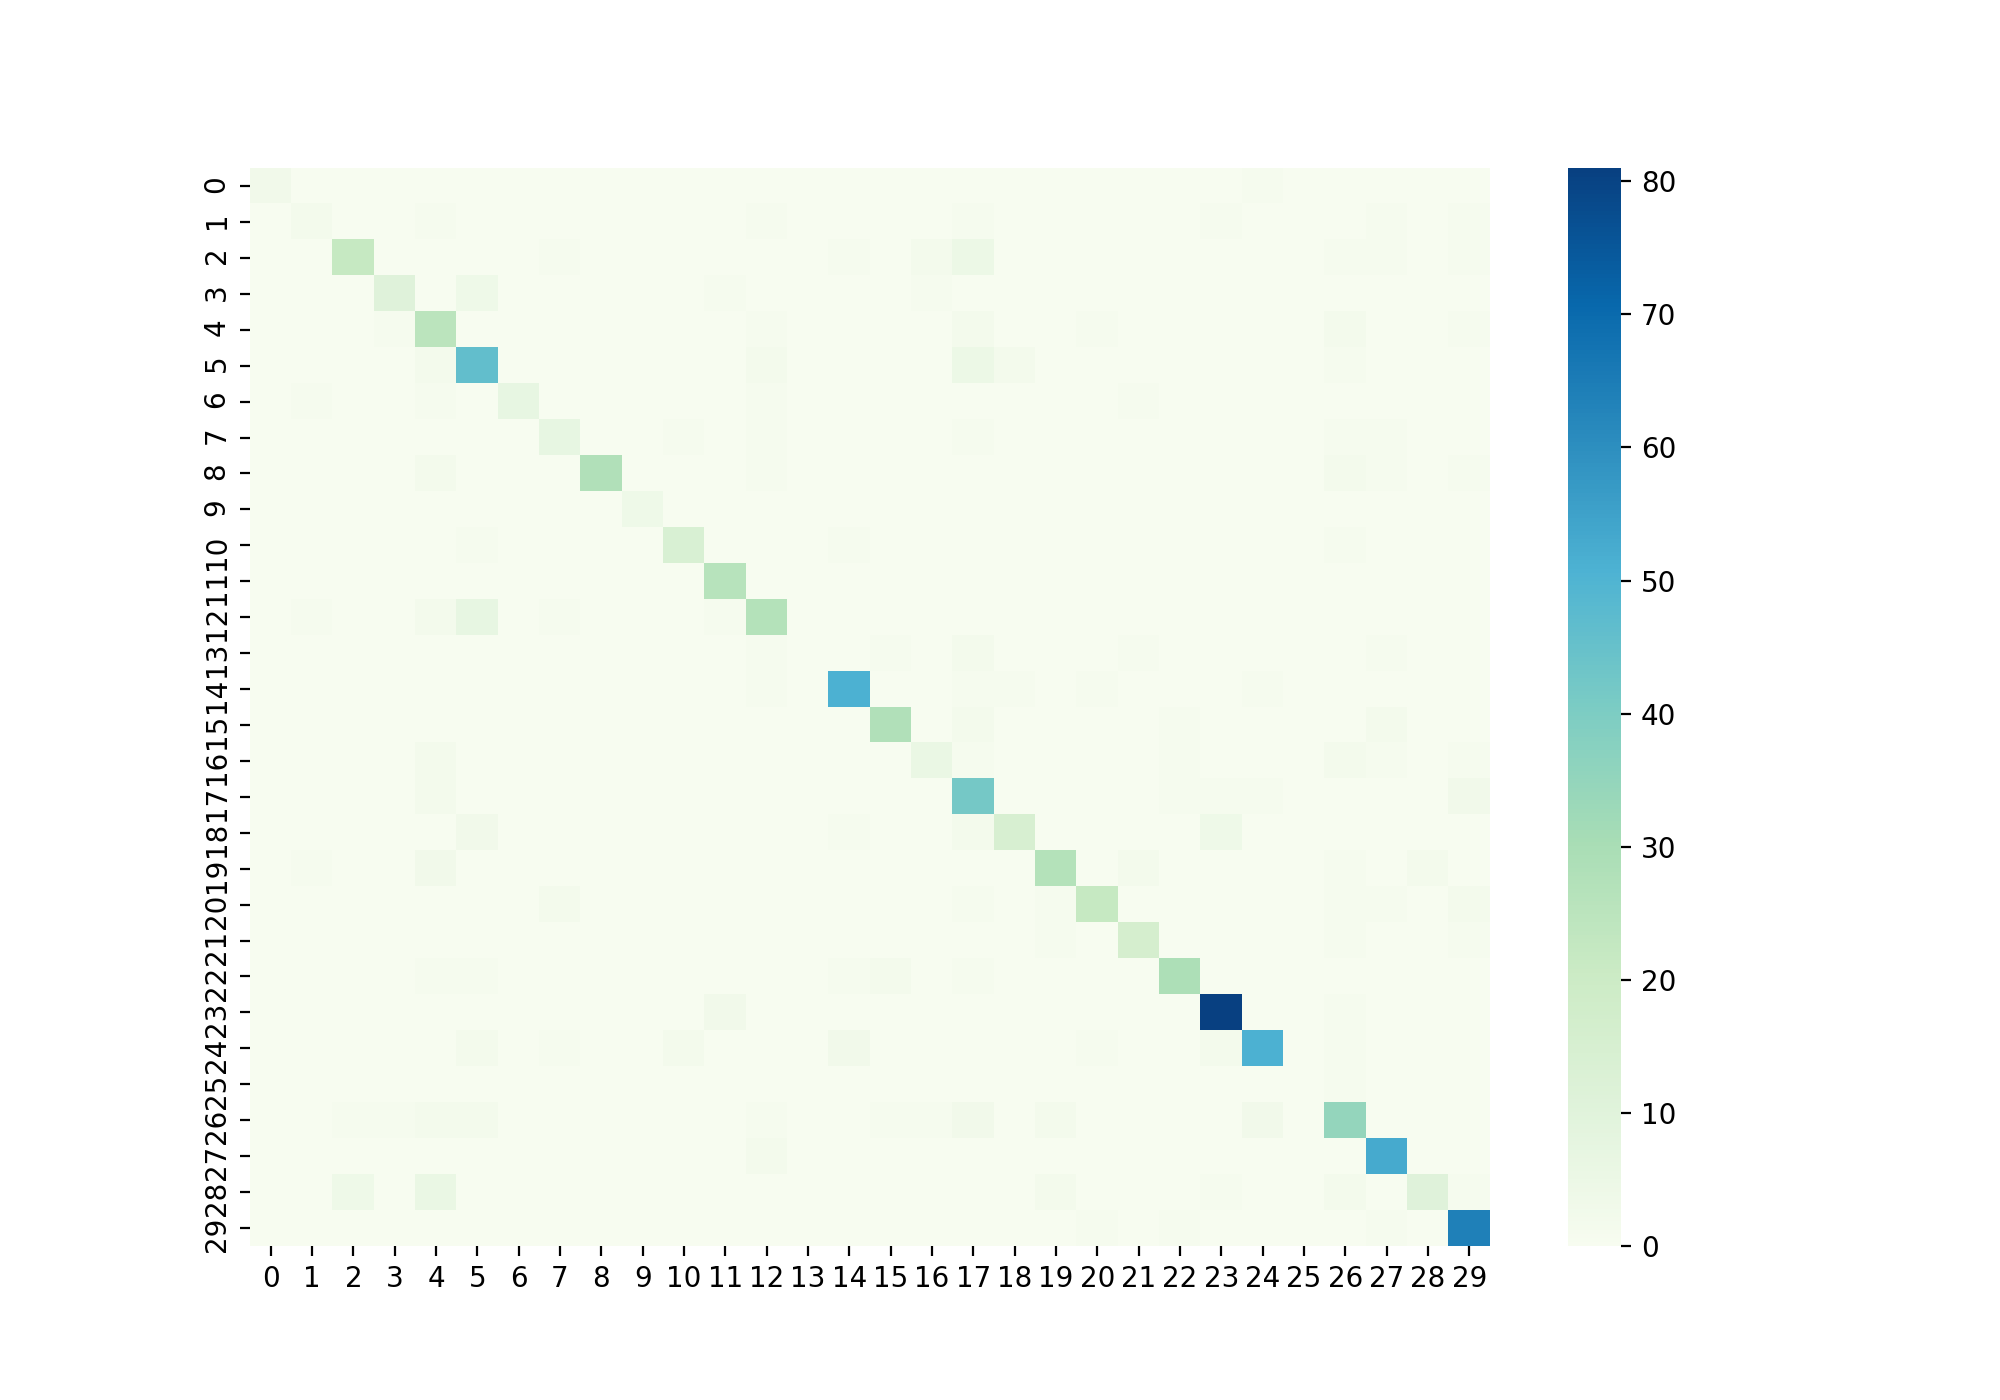
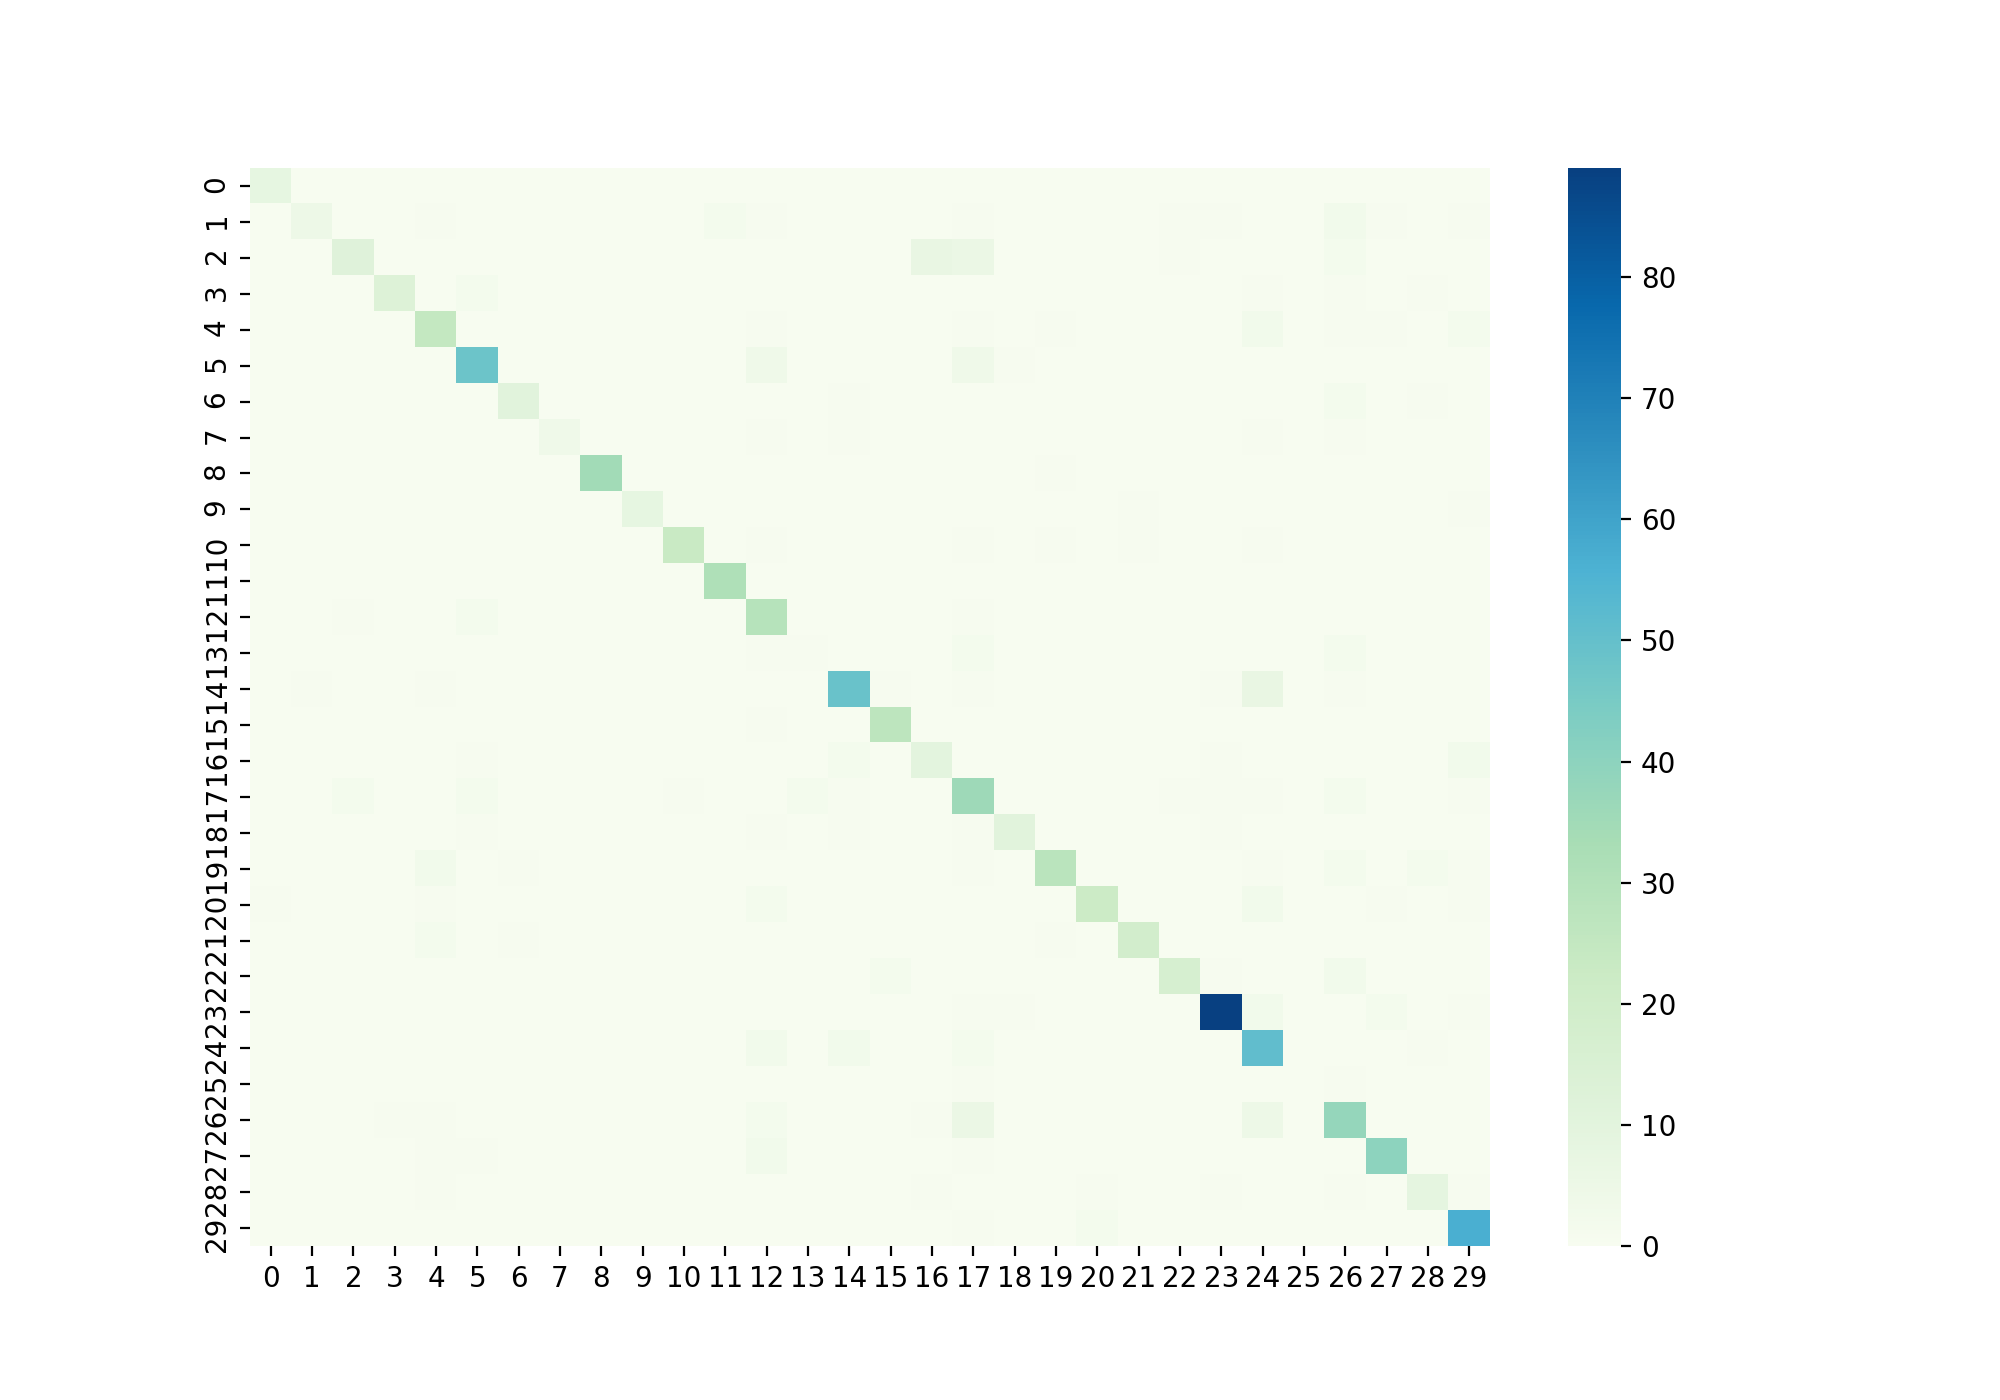
added a base perceptron

diff --git a/models.py b/models.py
@@ -1,7 +1,7 @@
 # models.py
 # Some code modified from A1 code in CS 378 NLP course
 
-from evaluate_utils import *
+from evalulate_utils import *
 from doc_process_utils import *
 
 from nltk.corpus import stopwords
@@ -85,6 +85,7 @@ class PerceptronExtractor(FeatureExtractor):
 
     def __init__(self, indexer: Indexer):
         self.indexer = indexer
+        self.enhanced_flag = True
 
     def get_indexer(self):
         return self.indexer
@@ -108,6 +109,26 @@ class PerceptronExtractor(FeatureExtractor):
                 self.indexer.add_and_get_index(reg)
 
         return Counter(filtered)
+
+class BasePerceptronExtractor(FeatureExtractor):
+    def __init__(self, indexer: Indexer):
+        self.indexer = indexer
+        self.enhanced_flag = False
+
+    def get_indexer(self):
+        return self.indexer
+
+    def extract_features(self, ex_words: List[str], add_to_indexer: bool = False) -> Counter:
+        stop_words = set(EN_STOPWORDS)
+
+        base_filtered = [w for w in ex_words if w not in stop_words and not any(i.isdigit() for i in w)]
+
+        for item in base_filtered:
+            if add_to_indexer:
+                self.indexer.add_and_get_index(item)
+
+
+        return Counter(base_filtered)
 
 
 class CommitteeClassifier(object):
@@ -138,7 +159,7 @@ class PerceptronClassifier(CommitteeClassifier):
     def predict(self, ex_words: List[str]) -> int:
         feat_cnt_dict = self.feat_extractor.extract_features(ex_words, False)
         feat_cnt_array = dict_to_np_array(feat_cnt_dict, self.feat_extractor.get_indexer(), self.word_idf,
-                                          get_summary(ex_words))
+                                          get_summary(ex_words), self.feat_extractor.enhanced_flag)
         dot_prod = np.dot(self.weights, feat_cnt_array)
         y_pred = np.argmax(dot_prod)
         return y_pred
@@ -171,7 +192,7 @@ class CNNClassifier(CommitteeClassifier):
 
 
 # NOTE: implementing multiclass perceptron using the different weights approach
-def train_perceptron(all_exs: List[BillExample]) -> PerceptronClassifier:
+def train_perceptron(all_exs: List[BillExample], type) -> PerceptronClassifier:
     """
     Train a classifier with the perceptron.
     :param all_exs: training and testing sets, List of SentimentExample objects
@@ -193,7 +214,11 @@ def train_perceptron(all_exs: List[BillExample]) -> PerceptronClassifier:
             test_exs.append(all_exs[i])
 
         # trying out a new model creating a new feature extractor
-        feat_extractor = PerceptronExtractor(Indexer())
+        if type == "BASE":
+            feat_extractor = BasePerceptronExtractor(Indexer())
+        else:
+            feat_extractor = PerceptronExtractor(Indexer())
+
         indexer = feat_extractor.get_indexer()
 
         # we make a dict of dicts bc we don't know what the vocabulary of the entire dataset will be
@@ -219,7 +244,7 @@ def train_perceptron(all_exs: List[BillExample]) -> PerceptronClassifier:
                 curr_example = train_exs[idx]
 
                 feat_dict = feat_labels[curr_example]
-                curr_features = dict_to_np_array(feat_dict, indexer, word_idf, get_summary(curr_example.words))
+                curr_features = dict_to_np_array(feat_dict, indexer, word_idf, get_summary(curr_example.words), feat_extractor.enhanced_flag)
 
                 # multiclass perceptron update
                 dot_prod = np.dot(weights, curr_features)
@@ -290,7 +315,7 @@ def train_cnn_classifier(args, all_exs: List[BillExample], word_embeddings: Word
                 # create batches of documents
                 batch_x_words = [train_exs[idx].words for idx in indices]
                 max_length = np.amax(np.array([len(x) for x in batch_x_words]))
-                upper_bound = 1000
+                upper_bound = 1500
                 batch_x_indices = []
                 # transforming everything in batch to be indexed words
                 for sentence in batch_x_words:

diff --git a/evalulate_utils.py b/evalulate_utils.py
@@ -1,10 +1,9 @@
 from process_data import *
-# import numpy as np
-# from sklearn.metrics import confusion_matrix
-# import seaborn as sn
+import numpy as np
+from sklearn.metrics import confusion_matrix
+import seaborn as sn
 import pandas as pd
 import matplotlib.pyplot as plt
-
 
 # Methods for evaluating models
 def evaluate(classifier, exs, show_plot):
@@ -27,9 +26,7 @@ def print_evaluation(golds: List[BillExample], predictions: List[BillExample], s
 
     :param golds: gold BillExample objects
     :param predictions: pred BillExample objects
-    :param show_plot
     :return:
-
     """
     num_correct = 0
     num_total = 0
@@ -42,27 +39,26 @@ def print_evaluation(golds: List[BillExample], predictions: List[BillExample], s
             num_correct += 1
         num_total += 1
     print("Accuracy: %i / %i = %f" % (num_correct, num_total, float(num_correct) / num_total))
-    # print_stats(golds, predictions, show_plot)
-    return float(num_correct) / num_total
+    print_stats(golds, predictions, show_plot)
+    return (float(num_correct) / num_total)
 
-#
-# def print_stats(golds, predictions, show_plot):
-#     cm = confusion_matrix(golds, predictions, labels=list(range(30)))
-#     with np.errstate(divide='ignore', invalid='ignore'):
-#         recall = np.nan_to_num(np.diag(cm) / np.sum(cm, axis=1))
-#         recall = np.mean(recall)
-#         precision = np.nan_to_num(np.diag(cm) / np.sum(cm, axis=0))
-#         precision = np.mean(precision)
-#         f1 = 2 * precision * recall / (precision + recall)
-#
-#         print("Precision: %f, Recall: %f, F1: %f" % (precision, recall, f1))
-#         # if show_plot:
-#         #     plot(cm)
+def print_stats(golds, predictions, show_plot):
+    cm = confusion_matrix(golds, predictions, labels=list(range(30)))
+    with np.errstate(divide='ignore', invalid='ignore'):
+        recall = np.nan_to_num(np.diag(cm) / np.sum(cm, axis = 1))
+        recall = np.mean(recall)
+        precision = np.nan_to_num(np.diag(cm) / np.sum(cm, axis = 0))
+        precision = np.mean(precision)
+        f1 = 2 * precision * recall / (precision + recall)
+
+        print("Precision: %f, Recall: %f, F1: %f" % (precision, recall, f1))
+        if show_plot == True:
+            plot(cm)
 
 
-# def plot(cm):
-#     df_cm = pd.DataFrame(cm, index=range(cm.shape[0]),
-#                          columns=range(cm.shape[1]))
-#     plt.figure(figsize=(10, 7))
-#     sn.heatmap(df_cm, annot=False, cmap="GnBu")
-#     plt.show()
+def plot(cm):
+    df_cm = pd.DataFrame(cm, index = range(cm.shape[0]),
+                  columns = range(cm.shape[1]))
+    plt.figure(figsize = (10,7))
+    sn.heatmap(df_cm, annot=False, cmap="GnBu")
+    plt.show()

diff --git a/doc_process_utils.py b/doc_process_utils.py
@@ -5,17 +5,21 @@ import re
 
 
 # Methods for document cleaning and preprocessing for perceptron
-def dict_to_np_array(counter: Counter, indexer: Indexer, word_idf, summary):
+def dict_to_np_array(counter: Counter, indexer: Indexer, word_idf, summary, enhanced_flag):
     feat_cnt_array = np.zeros(len(indexer))
     for word, count in counter.items():
         word_idx = indexer.index_of(word)
         if word_idx > 0:
             # starting feature is word_idf
-            feat_cnt_array[word_idx] = word_idf[word_idx]
+            if enhanced_flag:
+                feat_cnt_array[word_idx] = word_idf[word_idx]
+            else:
+                feat_cnt_array[word_idx] = count
 
-    for word in summary.split(" "):
-        word_idx = indexer.index_of(word)
-        feat_cnt_array[word_idx] *= 2
+    if enhanced_flag:
+        for word in summary.split(" "):
+            word_idx = indexer.index_of(word)
+            feat_cnt_array[word_idx] *= 2
 
     return feat_cnt_array
 

diff --git a/committee_classifier.py b/committee_classifier.py
@@ -29,12 +29,14 @@ def train_model(args, all_exs: List[BillExample]) -> CommitteeClassifier:
     """
     # Train the model
     if args.model == "PERCEPTRON":
-        model = train_perceptron(all_exs)
+        model = train_perceptron(all_exs, "ENHANCED")
+    elif args.model == "BASE-PERCEPTRON":
+        model = train_perceptron(all_exs, "BASE")
     elif args.model == "CNN":
         word_embeddings = read_word_embeddings("glove.6B.300d-relativized.txt")
         model = train_cnn_classifier(args, all_exs, word_embeddings)
     else:
-        raise Exception("Pass in PERCEPTRON, CNN or BERT to run the appropriate system")
+        raise Exception("Pass in BASE-PERCEPTRON, PERCEPTRON, CNN or BERT to run the appropriate system")
     return model
 
 
